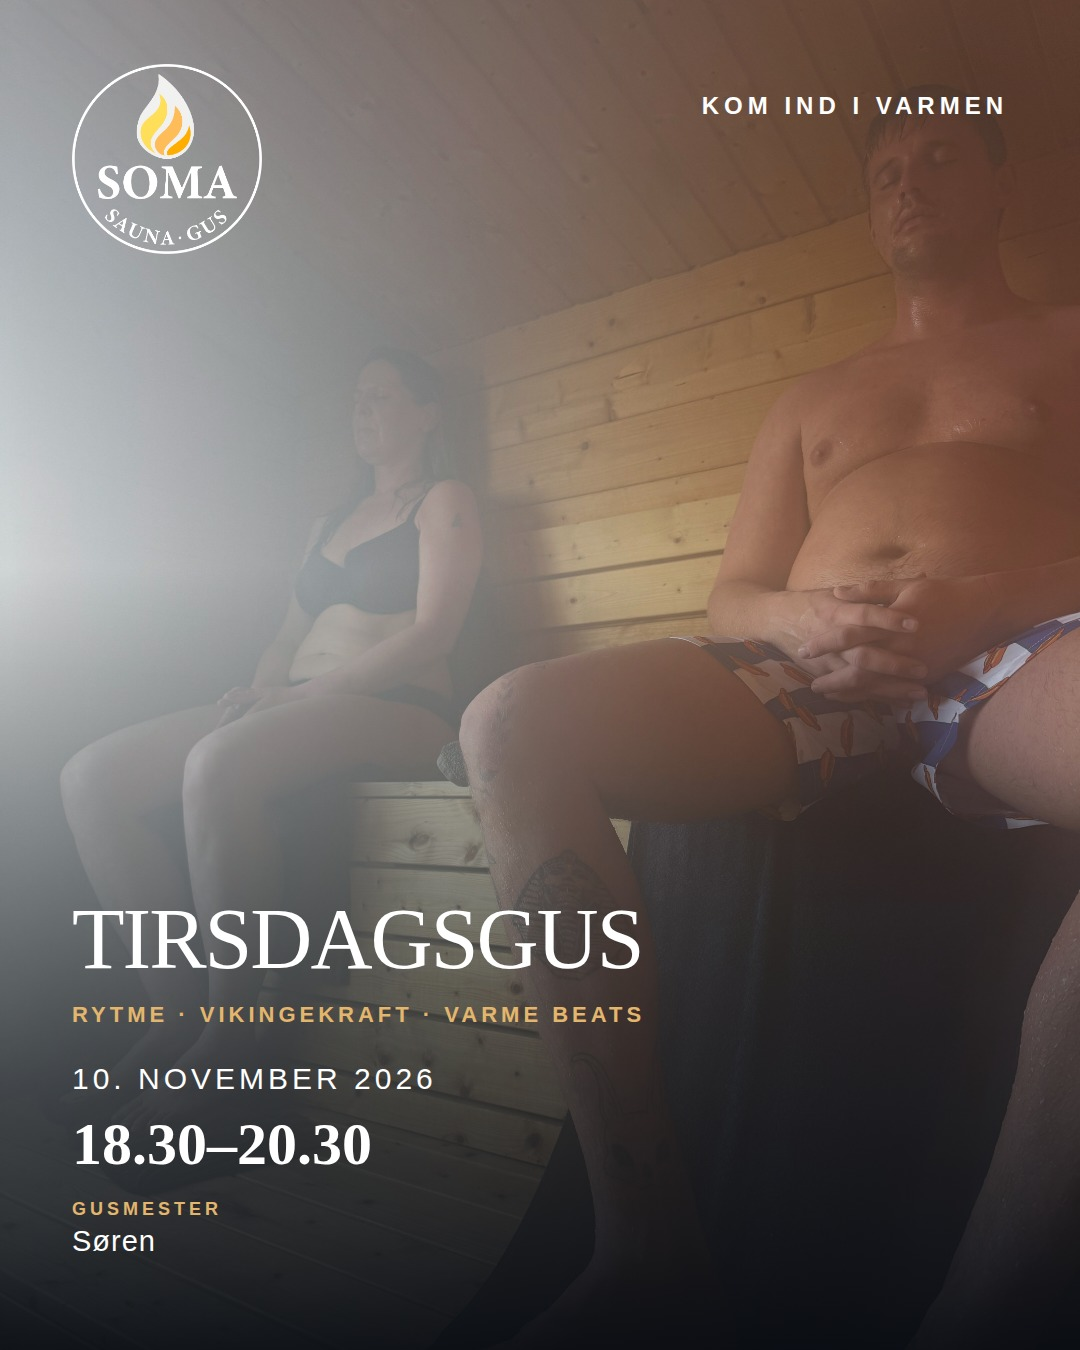
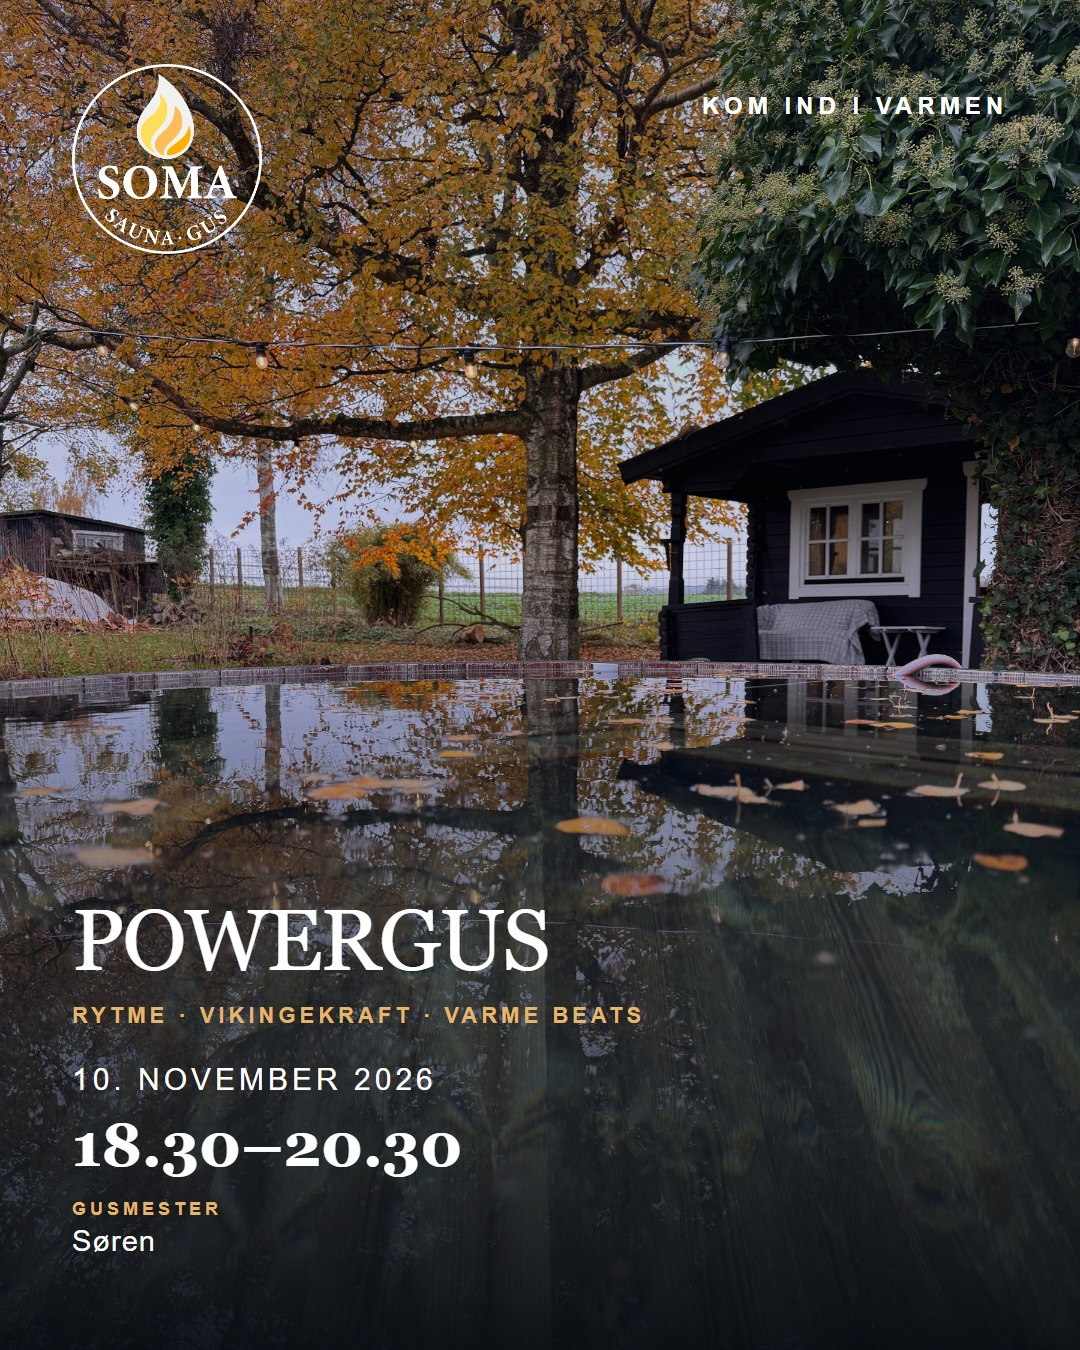
change-image: 2026-11-10_18-30_saunagus_event-day_r1 til soma-img-7323 via lokal godkendelsesside

diff --git a/outputs/content-planner/approval/drafts-data.js b/outputs/content-planner/approval/drafts-data.js
@@ -480,7 +480,7 @@ window.__SOMA_DRAFTS__ = window.__SOMA_DRAFTS__ || [
       "instagram": "I dag: Lad skuldrene sænke sig, mens varmen tager over.\n\n10. november 2026 · 18.30–20.30\n\n12 ledige pladser.\n\nBook din plads: https://somasaunagus.dk/kalender/",
       "facebookPage": "Dato og tid: 10. november 2026 · 18.30–20.30\n\n12 ledige pladser.\n\nBook din plads: https://somasaunagus.dk/kalender/\n\nI dag kan du træde ind i varmen til et saunagus.\n\nLad skuldrene sænke sig, mens varmen tager over.\n\nDer er mere kraft i musikken, mens kroppen inviteres til at give slip og finde ro.\n\nVi starter blidt, mærker rytmen og slutter roligt."
     },
[2 lines of base64/hex data omitted]
     "factsUsed": [
       "event.date",
       "event.start",
@@ -488,18 +488,25 @@ window.__SOMA_DRAFTS__ = window.__SOMA_DRAFTS__ || [
       "event.name",
       "profile:soren"
     ],
-    "assetId": "soma-power-steam",
+    "assetId": "soma-img-7323",
     "render": {
       "path": "renders/2026-11-10_18-30_saunagus_event-day-f85d1d3cdd.jpg",
       "width": 1080,
       "height": 1350,
[2 lines of base64/hex data omitted]
     },
     "renderPath": "renders/2026-11-10_18-30_saunagus_event-day-f85d1d3cdd.jpg",
     "manualInstructor": null,
-    "manualAssetId": null,
-    "history": [],
[1 lines of base64/hex data omitted]
+    "manualAssetId": "soma-img-7323",
+    "history": [
+      {
+        "at": "2026-11-08T08:40:13.839Z",
+        "type": "change_image",
+        "from": "draft",
+        "to": "draft"
+      }
+    ],
[1 lines of base64/hex data omitted]
     "approvedAt": null,
     "approvedBy": null,
     "approvedRevision": null,
